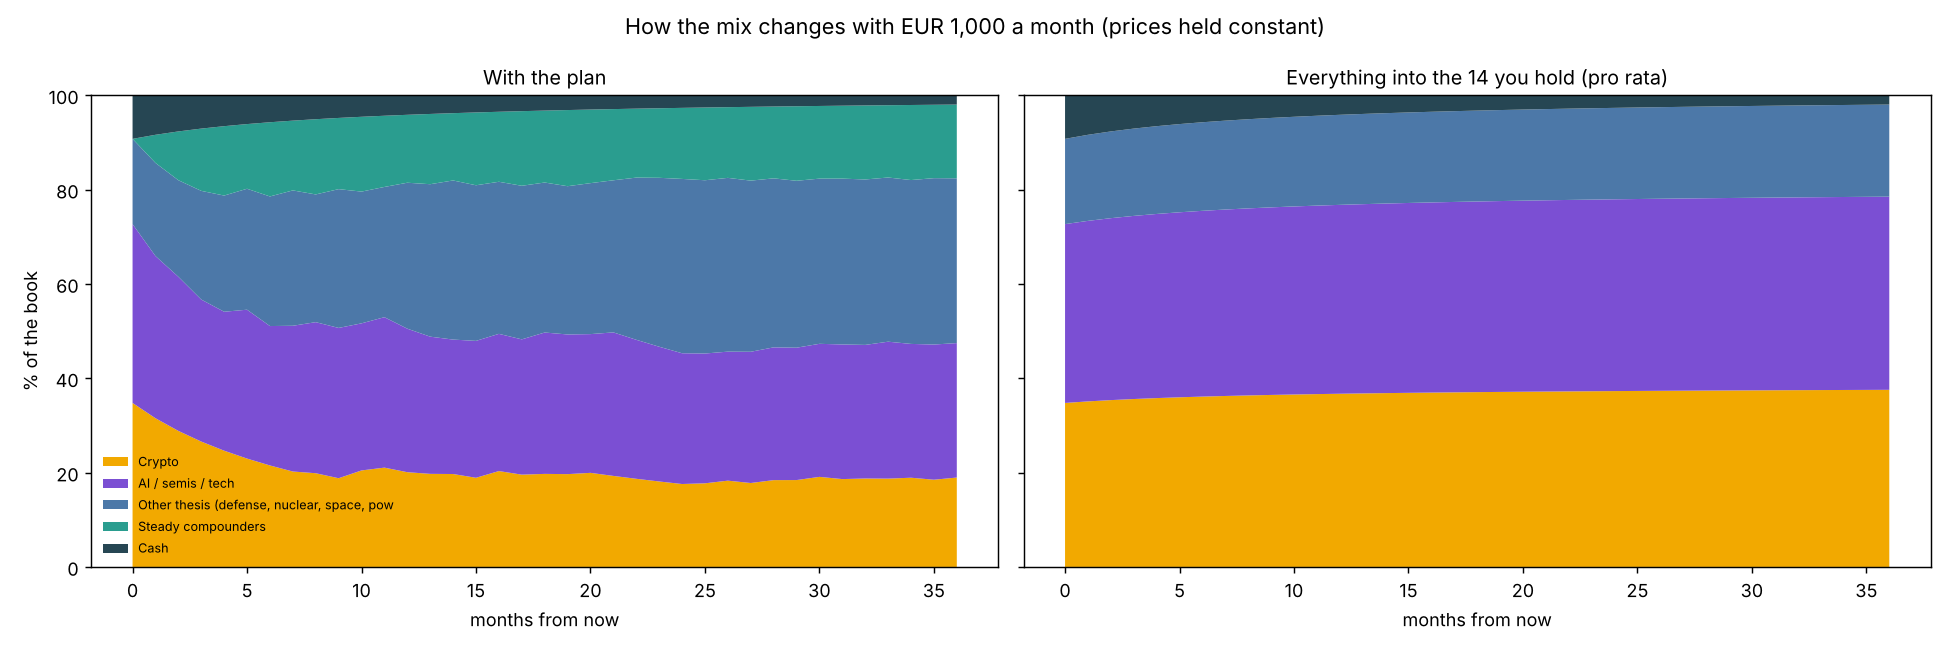
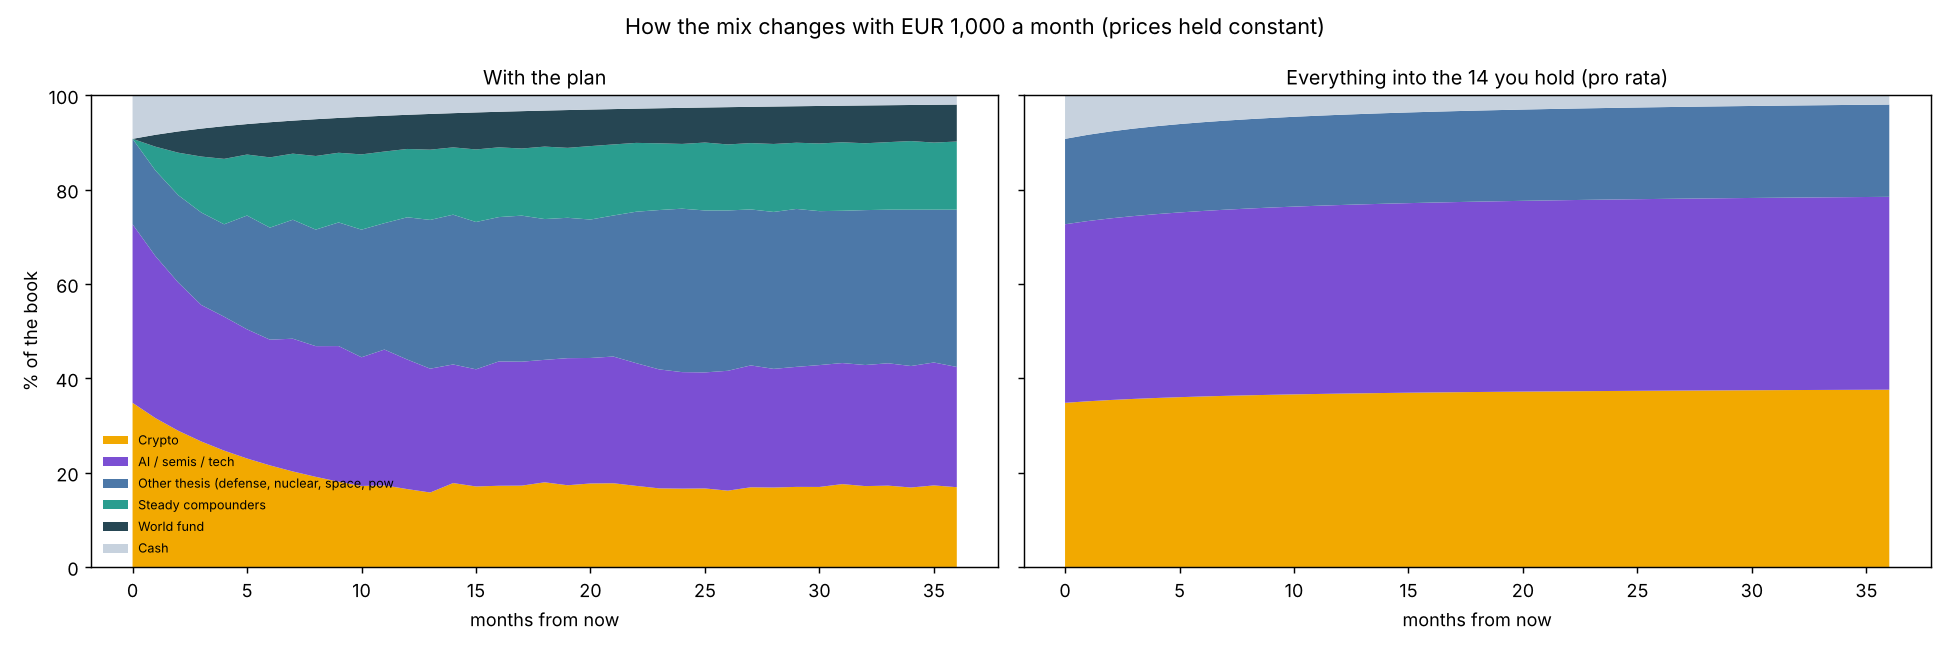
Restore world fund (VT) in the plan with a 5% risk budget; refresh plan, policy and IPS numbers
Claude-Session: https://claude.ai/code/session_01NJmfEZVHQN9Pen9tTm1HFs

diff --git a/reports/latest/MY_PLAN.md b/reports/latest/MY_PLAN.md
@@ -1,4 +1,4 @@
-# My plan (optimised version; prices as of 3 Nov 2026, EURUSD 1.119)
+# My plan (optimised version with the world fund VT; prices as of 3 Nov 2026, EURUSD 1.12)
 
 Book **$10,902 = EUR 9,742** (dry powder about EUR 900 is separate and untouched). Money per month: EUR 1,000.
 Rule: each month put the money into the (max 5) positions furthest BELOW target. Never sell. Overweights just get diluted.
@@ -8,7 +8,7 @@ Monthly: `python scripts/monthly_plan.py --monthly-eur 1000`; after buying: add 
 ## 1. What I hold now vs the target (book under EUR 20k)
 | Ticker | Value EUR | Now % | Target % | Status |
 |---|---|---|---|---|
-| BTC | 2,130 | 21.9 | 12.5 | over: no buys until about month 8 |
+| BTC | 2,130 | 21.9 | 10.9 | over: no buys until about month 11 |
 | QQQM | 1,444 | 14.8 | 11.4 | over |
 | SMH | 969 | 9.9 | 5.3 | over |
 | ETH | 886 | 9.1 | 5.0 | over |
@@ -23,47 +23,47 @@ Monthly: `python scripts/monthly_plan.py --monthly-eur 1000`; after buying: add 
 | UFO | 194 | 2.0 | 5.5 | under |
 | NEAR | 170 | 1.7 | 1.3 | over |
 | Cash (USDT) | ~900 | 9.2 | 5 | dry powder |
-New positions: **Visa (V) 7.6%, Mastercard (MA) 7.6%, HOOD 2.5%**. (I dropped the world fund: after risk budgeting it came out under 2%, too small to matter.)
+New positions: **Visa (V) 7.6%, Mastercard (MA) 7.6%, world fund VT 7.6%, HOOD 2.2%**. (The world fund is back: I had cut it when I gave it a 1% risk budget; with a 5% budget the optimiser sizes it at 7.6%.)
 
 ## 2. The next EUR 1,000 (month 1)
 | Buy | EUR | USD | Shares |
 |---|---|---|---|
-| Visa (V) | 320 | 358 | 0.8514 |
-| Mastercard (MA) | 320 | 358 | 0.5510 |
-| UFO | 153 | 171 | 4.2408 |
-| HOOD | 105 | 118 | 1.3944 |
-| NLR | 101 | 113 | 1.2444 |
-Two thirds of month 1 goes to Visa and Mastercard because they are the biggest hole in a book that is 73% crypto + AI. If that feels too boring, lower `steady` in `sleeve_max_pct` in `data/policy.json` and rerun `construct.py --build`.
+| Visa (V) | 271 | 304 | 0.7213 |
+| Mastercard (MA) | 271 | 304 | 0.4690 |
+| Vanguard Total World (VT) | 271 | 304 | 1.9568 |
+| UFO | 107 | 120 | 2.9438 |
+| HOOD | 79 | 88 | 1.0329 |
+VT pays quarterly dividends. If your platform does not credit dividends on it, ask support first (message in chat); without VT this month would be about V 320, MA 320, UFO 153, HOOD 105, NLR 101.
 
 ## 3. The next 12 months at EUR 1,000 (constant prices: rerun the tool each month)
 | Month | Buys (EUR) |
 |---|---|
-| 1 | V 320, MA 320, UFO 153, HOOD 105, NLR 101 |
-| 2 | V 287, MA 287, UFO 147, QTUM 143, LLY 136 |
-| 3 | V 234, MA 234, ITA 214, NLR 177, HOOD 142 |
-| 4 | UFO 227, LLY 222, QTUM 212, V 170, MA 170 |
-| 5 | NVDA 227, ITA 211, QQQM 211, NLR 185, SKHY 167 |
-| 6 | V 227, MA 227, HOOD 185, LLY 183, UFO 178 |
-| 7 | QQQM 304, QTUM 217, VST 182, ITA 156, NLR 142 |
-| 8 | NVDA 266, SKHY 243, V 176, MA 176, BTC 138 |
-| 9 | QQQM 290, LLY 222, UFO 213, ITA 144, NLR 131 |
-| 10 | BTC 342, QTUM 185, ETH 172, V 151, MA 151 |
-| 11 | SMH 235, QQQM 224, VST 213, NEAR 173, UNI 155 |
-| 12 | PICK 602, GEV 330, ITA 68 |
+| 1 | V 271, MA 271, VT 271, UFO 107, HOOD 79 |
+| 2 | V 258, MA 258, VT 258, LLY 114, UFO 111 |
+| 3 | V 226, MA 226, VT 226, ITA 167, NLR 155 |
+| 4 | QTUM 213, V 197, MA 197, VT 197, LLY 195 |
+| 5 | UFO 251, ITA 220, HOOD 203, NLR 192, NVDA 136 |
+| 6 | V 220, MA 220, VT 220, LLY 181, QTUM 160 |
+| 7 | QQQM 294, SKHY 221, ITA 176, UFO 164, NLR 145 |
+| 8 | V 212, MA 212, VT 212, NVDA 204, LLY 160 |
+| 9 | QQQM 269, QTUM 202, VST 200, HOOD 182, ITA 147 |
+| 10 | UFO 221, NLR 208, V 190, MA 190, VT 190 |
+| 11 | SKHY 229, LLY 216, QQQM 204, BTC 200, NVDA 151 |
+| 12 | PICK 582, GEV 336, ITA 82 |
 
 ## 4. As the book grows
 | Book reaches | New positions | When at EUR 1,000/mo | At EUR 1,500/mo |
 |---|---|---|---|
 | EUR 20,000 | GE Vernova (GEV) and mining ETF (PICK) | about month 11-12 | about month 7 |
 | EUR 30,000 | India (INDA) and gene editing (CRSP) | about month 21 | about month 14 |
-After 3 years (constant prices): crypto 19% (vs 38% pro rata), AI/semis/tech 28.5% (vs 41%), other thesis 35%, Visa+Mastercard 15.6%, 21 positions.
+After 3 years (constant prices): crypto 17% (vs 38% pro rata), AI/semis/tech 25.5% (vs 41%), other thesis 33%, Visa+Mastercard 14.5%, world fund 7.8%, 22 positions.
 
 ## 5. What the optimisation changed vs my first plan
-- Out-of-sample (2021-2026): about the same return (27.0% vs 27.4% a year) with lower risk: volatility 22.7% vs 25.6%, worst drop -30% vs -37%.
+- Out-of-sample (2021-2026): slightly lower return (25.7% vs 26.2% a year) with clearly lower risk: volatility 22.0% vs 24.8%, worst drop -30% vs -37%.
 - Target mixes: volatility 24.7% / 24.2% / 23.0% (stages A/B/C) vs 30.3% today; worst drop about -22 to -24% vs -30%; crypto share of risk 30-32% vs 52% today.
-- Sizes moved: BTC 12.5% (was 17), Visa/Mastercard 7.6% each (was 4), India 5.7% (was 3), HOOD 2.5% (was 3).
+- Sizes moved: BTC 10.9% (was 17), Visa/Mastercard 7.6% each (was 4), world fund 7.6% (was 8), India 5.7% (was 3), HOOD 2.2% (was 3).
 
 ## 6. HOOD
-Risk-budget sizing says about 2.5% now and no more after. At 3% it adds +0.6 pt volatility and -0.8 pt to the worst 20-day loss, and is the only candidate that raises risk; Q3 2026: record revenue $1.42B, EPS -16%, crypto revenue -55% y/y, funded customers +7%, Gold subscribers +34%. A conviction bet, sized small.
+Risk-budget sizing says about 2.2% now and no more after. At 3% it adds +0.6 pt volatility and -0.8 pt to the worst 20-day loss, and is the only candidate that raises risk; Q3 2026: record revenue $1.42B, EPS -16%, crypto revenue -55% y/y, funded customers +7%, Gold subscribers +34%. A conviction bet, sized small.
 
 Caveats: policy numbers are my proposal; history-based results are hindsight with a hindsight-picked universe; assumes fills at the latest close; not financial advice.

diff --git a/reports/latest/plan.md b/reports/latest/plan.md
@@ -1,61 +1,61 @@
-# Monthly plan (EURUSD 1.119)
-Book $10,902 = EUR 9,742 -> stage **A**. Money this month: EUR 1,000 = $1,119.
+# Monthly plan (EURUSD 1.120)
+Book $10,908 = EUR 9,741 -> stage **A**. Money this month: EUR 1,000 = $1,120.
 
 ## This month's buys (most under-target first)
 | Ticker | buy EUR | buy USD | shares | weight now % | weight after % | target % | new? |
 |---|---|---|---|---|---|---|---|
-| V | 320 | 358 | 0.8514 | 0.0 | 3.0 | 7.6 | NEW |
-| MA | 320 | 358 | 0.5510 | 0.0 | 3.0 | 7.6 | NEW |
-| UFO | 153 | 171 | 4.2408 | 2.0 | 3.2 | 5.5 |  |
-| HOOD | 105 | 118 | 1.3944 | 0.0 | 1.0 | 2.5 | NEW |
-| NLR | 101 | 113 | 1.2444 | 3.0 | 3.6 | 5.2 |  |
+| V | 271 | 304 | 0.7213 | 0.0 | 2.5 | 7.6 | NEW |
+| MA | 271 | 304 | 0.4690 | 0.0 | 2.5 | 7.6 | NEW |
+| WORLD | 271 | 304 | 1.9568 | 0.0 | 2.5 | 7.6 | NEW |
+| UFO | 107 | 120 | 2.9438 | 2.0 | 2.8 | 4.9 |  |
+| HOOD | 79 | 88 | 1.0329 | 0.0 | 0.7 | 2.2 | NEW |
 
-Above target (no selling needed, they get diluted): BTC +9.4pt, SMH +4.6pt, ETH +4.1pt, QQQM +3.4pt, VST +1.2pt
+Above target (no selling needed, they get diluted): BTC +11.0pt, SMH +5.1pt, ETH +4.7pt, QQQM +4.5pt, VST +1.7pt
 
 Positions still at zero in this stage (planned later): CRSP, GEV, INDA, PICK
 
 | Buy calendar (first 12 months) | stage | buys (EUR) |
 |---|---|---|
-| month 1 | A | V 320, MA 320, UFO 153, HOOD 105, NLR 101 |
-| month 2 | A | V 287, MA 287, UFO 147, QTUM 143, LLY 136 |
-| month 3 | A | V 234, MA 234, ITA 214, NLR 177, HOOD 142 |
-| month 4 | A | UFO 227, LLY 222, QTUM 212, V 170, MA 170 |
-| month 5 | A | NVDA 227, ITA 211, QQQM 211, NLR 185, SKHY 167 |
-| month 6 | A | V 227, MA 227, HOOD 185, LLY 183, UFO 178 |
-| month 7 | A | QQQM 304, QTUM 217, VST 182, ITA 156, NLR 142 |
-| month 8 | A | NVDA 266, SKHY 243, V 176, MA 176, BTC 138 |
-| month 9 | A | QQQM 290, LLY 222, UFO 213, ITA 144, NLR 131 |
-| month 10 | A | BTC 342, QTUM 185, ETH 172, V 151, MA 151 |
-| month 11 | A | SMH 235, QQQM 224, VST 213, NEAR 173, UNI 155 |
-| month 12 | B | PICK 602, GEV 330, ITA 68 |
+| month 1 | A | V 271, MA 271, WORLD 271, UFO 107, HOOD 79 |
+| month 2 | A | V 258, MA 258, WORLD 258, LLY 114, UFO 111 |
+| month 3 | A | V 226, MA 226, WORLD 226, ITA 167, NLR 155 |
+| month 4 | A | QTUM 213, V 197, MA 197, WORLD 197, LLY 195 |
+| month 5 | A | UFO 251, ITA 220, HOOD 203, NLR 192, NVDA 136 |
+| month 6 | A | V 220, MA 220, WORLD 220, LLY 181, QTUM 160 |
+| month 7 | A | QQQM 294, SKHY 221, ITA 176, UFO 164, NLR 145 |
+| month 8 | A | V 212, MA 212, WORLD 212, NVDA 204, LLY 160 |
+| month 9 | A | QQQM 269, QTUM 202, VST 200, HOOD 182, ITA 147 |
+| month 10 | A | UFO 221, NLR 208, V 190, MA 190, WORLD 190 |
+| month 11 | A | SKHY 229, LLY 216, QQQM 204, BTC 200, NVDA 151 |
+| month 12 | B | PICK 582, GEV 336, ITA 82 |
 
 ## 36-month path at EUR 1,000/mo (constant prices: shows only what new money does)
 Stage changes: stage A from month 0, stage B from month 11, stage C from month 21
 
-| With the plan | Crypto | AI / semis / tech | Other thesis (defense, nuclear, space, power, health, fintech, new themes) | Steady compounders | Cash | # positions |
-|---|---|---|---|---|---|---|
-| month 0 | 34.8 | 37.9 | 18.1 | 0.0 | 9.2 | 14 |
-| month 6 | 21.5 | 29.6 | 27.5 | 15.7 | 5.7 | 17 |
-| month 12 | 20.1 | 30.4 | 30.9 | 14.4 | 4.1 | 19 |
-| month 18 | 19.7 | 30.0 | 31.8 | 15.3 | 3.2 | 19 |
-| month 24 | 17.6 | 27.7 | 37.0 | 15.1 | 2.7 | 21 |
-| month 36 | 19.0 | 28.5 | 34.9 | 15.6 | 2.0 | 21 |
+| With the plan | Crypto | AI / semis / tech | Other thesis (defense, nuclear, space, power, health, fintech, new themes) | Steady compounders | World fund | Cash | # positions |
+|---|---|---|---|---|---|---|---|
+| month 0 | 34.8 | 37.9 | 18.1 | 0.0 | 0.0 | 9.2 | 14 |
+| month 6 | 21.5 | 26.7 | 23.8 | 14.9 | 7.4 | 5.7 | 18 |
+| month 12 | 16.5 | 27.5 | 30.2 | 14.5 | 7.2 | 4.1 | 20 |
+| month 18 | 17.9 | 26.0 | 29.8 | 15.4 | 7.6 | 3.2 | 20 |
+| month 24 | 16.6 | 24.7 | 34.7 | 13.7 | 7.7 | 2.7 | 22 |
+| month 36 | 16.9 | 25.5 | 33.3 | 14.5 | 7.8 | 2.0 | 22 |
 
 | All new money into the 14 (pro rata) | Crypto | AI / semis / tech | Cash |
 |---|---|---|---|
 | month 0 | 34.8 | 37.9 | 9.2 |
-| month 6 | 36.1 | 39.4 | 5.7 |
+| month 6 | 36.1 | 39.3 | 5.7 |
 | month 12 | 36.7 | 40.0 | 4.1 |
 | month 18 | 37.1 | 40.4 | 3.2 |
-| month 24 | 37.3 | 40.7 | 2.7 |
-| month 36 | 37.6 | 41.0 | 2.0 |
+| month 24 | 37.3 | 40.6 | 2.7 |
+| month 36 | 37.6 | 40.9 | 2.0 |
 
 ## Risk of each target mix over 2024-03-28 to 2026-11-03 (risky part only, history of these names, hindsight)
 | Mix | vol % | worst drawdown % | worst 20d loss % | crypto share of risk % | AI/semis share of risk % | # positions |
 |---|---|---|---|---|---|---|
-| Your book today | 30.3 | -30.0 | -16.7 | 51.9 | 35.6 | 14 |
-| All new money into the 14 (month 36 mix) | 30.3 | -30.0 | -16.7 | 51.9 | 35.6 | 14 |
-| Stage A target | 24.7 | -23.7 | -13.3 | 31.7 | 35.8 | 17 |
-| Stage B target | 24.2 | -22.2 | -13.1 | 30.9 | 34.3 | 19 |
-| Stage C target | 23.0 | -22.3 | -12.5 | 30.3 | 34.1 | 21 |
+| Your book today | 30.3 | -30.0 | -16.7 | 51.9 | 35.5 | 14 |
+| All new money into the 14 (month 36 mix) | 30.3 | -30.0 | -16.7 | 51.9 | 35.5 | 14 |
+| Stage A target | 23.3 | -22.1 | -13.3 | 28.4 | 34.5 | 18 |
+| Stage B target | 23.0 | -21.0 | -13.0 | 28.5 | 32.4 | 20 |
+| Stage C target | 22.0 | -21.3 | -12.3 | 28.3 | 32.4 | 22 |
 

diff --git a/reports/latest/construction.md b/reports/latest/construction.md
@@ -1,56 +1,58 @@
 # Portfolio construction
 
-## 1. Out-of-sample validation (2021-07-01 to 2026-11-03, monthly refit on the previous 3 years, ~20 assets available on average)
+## 1. Out-of-sample validation (2021-07-01 to 2026-11-03, monthly refit on the previous 3 years, ~21 assets available on average)
 | Method | CAGR % | vol % | Sharpe | max drawdown % | worst 20d % | turnover %/yr |
 |---|---|---|---|---|---|---|
-| Equal weight | 26.5 | 27.0 | 0.87 | -33.5 | -19.1 | 61.7 |
-| Hand-set plan weights | 27.4 | 25.6 | 0.95 | -37.3 | -17.5 | 53.9 |
-| FinQuant max-Sharpe (cap 15%) | 28.3 | 20.5 | 1.23 | -24.2 | -15.4 | 99.3 |
-| FinQuant min-variance (cap 15%) | 19.8 | 15.8 | 1.07 | -17.3 | -10.8 | 52.5 |
-| Equal risk contribution (cap 15%) | 25.0 | 20.4 | 1.08 | -23.7 | -13.8 | 52.1 |
-| Risk budgets by sleeve + position caps | 27.0 | 22.7 | 1.06 | -30.3 | -14.7 | 53.7 |
+| Equal weight | 25.7 | 26.3 | 0.86 | -33.1 | -18.7 | 60.0 |
+| Hand-set plan weights | 26.2 | 24.8 | 0.94 | -36.6 | -17.1 | 52.1 |
+| FinQuant max-Sharpe (cap 15%) | 27.9 | 20.2 | 1.23 | -23.1 | -15.5 | 109.0 |
+| FinQuant min-variance (cap 15%) | 19.1 | 15.2 | 1.06 | -17.3 | -10.4 | 48.3 |
+| Equal risk contribution (cap 15%) | 24.0 | 20.1 | 1.05 | -23.9 | -13.6 | 50.2 |
+| Risk budgets by sleeve + position caps | 25.7 | 22.0 | 1.04 | -29.9 | -14.4 | 51.5 |
 
 Costs: 10bp per side (25bp crypto). All methods see the same hindsight-picked universe, so compare rows against each other.
 ## 2. Optimised targets (% of whole book, 5% cash on top) vs my hand-set ones
 | Ticker | now % | optimised A | optimised B | optimised C | hand-set A | hand-set B | hand-set C |
 |---|---|---|---|---|---|---|---|
-| BTC | 21.9 | 12.5 | 12.1 | 11.3 | 17.0 | 14.5 | 13.0 |
-| CRSP | 0.0 | 0.0 | 0.0 | 2.3 | 0.0 | 0.0 | 2.0 |
-| ETH | 9.1 | 5.0 | 4.8 | 4.5 | 6.0 | 5.0 | 4.5 |
-| GEV | 0.0 | 0.0 | 2.8 | 2.2 | 0.0 | 3.0 | 3.0 |
-| HOOD | 0.0 | 2.5 | 1.8 | 1.4 | 3.0 | 3.0 | 3.0 |
+| BTC | 21.9 | 10.9 | 10.8 | 10.2 | 17.0 | 14.5 | 13.0 |
+| CRSP | 0.0 | 0.0 | 0.0 | 2.1 | 0.0 | 0.0 | 2.0 |
+| ETH | 9.1 | 4.4 | 4.3 | 4.1 | 6.0 | 5.0 | 4.5 |
+| GEV | 0.0 | 0.0 | 2.6 | 2.0 | 0.0 | 3.0 | 3.0 |
+| HOOD | 0.0 | 2.2 | 1.6 | 1.2 | 3.0 | 3.0 | 3.0 |
 | INDA | 0.0 | 0.0 | 0.0 | 5.7 | 0.0 | 0.0 | 3.0 |
-| ITA | 4.1 | 5.7 | 5.7 | 5.3 | 4.0 | 4.0 | 4.0 |
+| ITA | 4.1 | 5.7 | 5.7 | 4.8 | 4.0 | 4.0 | 4.0 |
 | LLY | 4.0 | 5.7 | 5.7 | 5.7 | 4.0 | 4.0 | 4.0 |
-| MA | 0.0 | 7.6 | 7.6 | 7.6 | 4.0 | 5.0 | 5.5 |
-| NEAR | 1.7 | 1.3 | 1.3 | 1.2 | 1.5 | 1.0 | 1.0 |
-| NLR | 2.9 | 5.2 | 3.5 | 2.7 | 3.0 | 3.0 | 3.0 |
-| NVDA | 5.1 | 5.0 | 4.7 | 4.5 | 5.0 | 4.5 | 4.5 |
-| PICK | 0.0 | 0.0 | 5.1 | 3.8 | 0.0 | 3.0 | 3.0 |
-| QQQM | 14.8 | 11.4 | 10.8 | 10.0 | 12.0 | 10.5 | 9.5 |
-| QTUM | 3.0 | 4.9 | 4.5 | 4.3 | 3.0 | 3.0 | 3.0 |
-| SKHY | 5.1 | 4.6 | 4.3 | 4.1 | 5.0 | 4.5 | 4.0 |
-| SMH | 9.9 | 5.3 | 4.9 | 4.7 | 7.0 | 6.5 | 6.0 |
-| UFO | 2.0 | 5.5 | 3.8 | 2.9 | 2.0 | 2.0 | 2.0 |
-| UNI | 2.0 | 1.4 | 1.3 | 1.3 | 1.5 | 1.5 | 1.5 |
-| V | 0.0 | 7.6 | 7.6 | 7.5 | 4.0 | 5.0 | 5.5 |
-| VST | 5.1 | 3.8 | 2.7 | 2.1 | 5.0 | 4.5 | 4.0 |
+| MA | 0.0 | 7.6 | 7.5 | 7.0 | 4.0 | 5.0 | 5.5 |
+| NEAR | 1.7 | 1.1 | 1.2 | 1.1 | 1.5 | 1.0 | 1.0 |
+| NLR | 2.9 | 4.6 | 3.2 | 2.5 | 3.0 | 3.0 | 3.0 |
+| NVDA | 5.1 | 4.5 | 4.3 | 4.1 | 5.0 | 4.5 | 4.5 |
+| PICK | 0.0 | 0.0 | 4.5 | 3.4 | 0.0 | 3.0 | 3.0 |
+| QQQM | 14.8 | 10.3 | 9.4 | 9.0 | 12.0 | 10.5 | 9.5 |
+| QTUM | 3.0 | 4.3 | 4.0 | 3.9 | 3.0 | 3.0 | 3.0 |
+| SKHY | 5.1 | 4.2 | 3.9 | 3.8 | 5.0 | 4.5 | 4.0 |
+| SMH | 9.9 | 4.8 | 4.4 | 4.2 | 7.0 | 6.5 | 6.0 |
+| UFO | 2.0 | 4.9 | 3.4 | 2.6 | 2.0 | 2.0 | 2.0 |
+| UNI | 2.0 | 1.2 | 1.2 | 1.2 | 1.5 | 1.5 | 1.5 |
+| V | 0.0 | 7.6 | 7.4 | 6.9 | 4.0 | 5.0 | 5.5 |
+| VST | 5.1 | 3.4 | 2.4 | 1.9 | 5.0 | 4.5 | 4.0 |
+| WORLD | 0.0 | 7.6 | 7.6 | 7.6 | 8.0 | 7.5 | 6.0 |
 
 ## 3. Risk by sleeve (% of total portfolio risk) at each optimised stage
 | sleeve | A | B | C |
 |---|---|---|---|
-| ai_tech | 33.2 | 32.3 | 32.1 |
-| crypto | 35.9 | 34.4 | 33.9 |
-| other_thesis | 26.3 | 28.5 | 28.8 |
-| steady | 4.6 | 4.8 | 5.2 |
+| ai_tech | 31.8 | 30.7 | 30.6 |
+| crypto | 32.9 | 31.7 | 31.5 |
+| other_thesis | 25.7 | 27.8 | 28.0 |
+| steady | 5.2 | 5.2 | 5.2 |
+| world | 4.4 | 4.5 | 4.8 |
 
 ## 4. Stage mixes: optimised vs hand-set (covariance since the last 3 years)
-| stage / mix | vol % | worst drawdown % | largest weight % | crypto share of risk % |
-|---|---|---|---|---|
-| stage A optimised | 24.0 | -25.3 | 12.5 | 35.9 |
-| stage A hand-set | 27.6 | -28.3 | 18.6 | 47.0 |
-| stage B optimised | 24.2 | -24.7 | 12.1 | 34.4 |
-| stage B hand-set | 27.0 | -27.0 | 15.7 | 38.1 |
-| stage C optimised | 23.0 | -23.4 | 11.3 | 33.9 |
-| stage C hand-set | 25.8 | -25.9 | 13.9 | 35.3 |
+| stage / mix | vol % | worst drawdown % | largest weight % | crypto share of risk % | no-sell floor binding |
+|---|---|---|---|---|---|
+| stage A optimised | 22.6 | -24.1 | 10.9 | 32.9 | ETH, SMH |
+| stage A hand-set | 26.2 | -27.2 | 17.0 | 44.7 | - |
+| stage B optimised | 23.0 | -23.6 | 10.8 | 31.7 | - |
+| stage B hand-set | 25.8 | -26.1 | 14.5 | 36.2 | - |
+| stage C optimised | 22.0 | -22.5 | 10.2 | 31.5 | - |
+| stage C hand-set | 24.9 | -25.3 | 13.0 | 33.9 | - |
 

diff --git a/reports/latest/IPS.md b/reports/latest/IPS.md
@@ -16,9 +16,9 @@ Written down so decisions are made by rules, not by mood. Numbers come from `scr
 
 ## 3. Risk policy
 - Accepts drawdowns of 40-50% in the worst cases (e.g. a dot-com-style shock hits the plan for about -53 to -57% of the book; the old pro-rata approach about -62%).
-- **Sleeve risk budgets** (share of total portfolio risk): crypto 33%, AI/semis/tech 31%, other thesis 30%, steady compounders 5%, world fund 1% (excluded).
+- **Sleeve risk budgets** (share of total portfolio risk): crypto 31%, AI/semis/tech 30%, other thesis 29%, steady compounders 5%, world fund (VT) 5%.
 - **Position caps** (max % of invested money in one holding): crypto 15, AI/tech 12, other thesis 6, steady 8; **no-sell floors** override a cap.
-- **Sleeve ranges (% of whole book):** crypto 10-22 (hard max 25), AI/semis/tech 20-32, other thesis 25-40, steady 10-18, cash 2-8. HOOD max 4%.
+- **Sleeve ranges (% of whole book):** crypto 10-22 (hard max 25), AI/semis/tech 20-32, other thesis 25-40, steady 10-18, world fund 4-10, cash 2-8. HOOD max 4%.
 - Today's book is outside the ranges (crypto 35%, AI/tech 38%, no steady names). It is brought inside by new money only.
 
 ## 4. How the weights are built (and why I trust it only this far)
@@ -27,13 +27,13 @@ Written down so decisions are made by rules, not by mood. Numbers come from `scr
 
 | Method | CAGR | Vol | Sharpe | Worst drop |
 |---|---|---|---|---|
-| Hand-set weights (my first plan) | 27.4% | 25.6% | 0.95 | -37.3% |
-| **Risk budgets + caps (used)** | 27.0% | 22.7% | 1.06 | -30.3% |
-| Equal risk contribution | 25.0% | 20.4% | 1.08 | -23.7% |
-| FinQuant max-Sharpe (cap 15%) | 28.3% | 20.5% | 1.23 | -24.2% |
-| Equal weight | 26.5% | 27.0% | 0.87 | -33.5% |
+| Hand-set weights (my first plan) | 26.2% | 24.8% | 0.94 | -36.6% |
+| **Risk budgets + caps (used)** | 25.7% | 22.0% | 1.04 | -29.9% |
+| Equal risk contribution | 24.0% | 20.1% | 1.05 | -23.9% |
+| FinQuant max-Sharpe (cap 15%) | 27.9% | 20.2% | 1.23 | -23.1% |
+| Equal weight | 25.7% | 26.3% | 0.86 | -33.1% |
 
-- Max-Sharpe scores best but is **not used**: the 22 names were picked with hindsight (winners), which flatters any method that chases recent winners, it trades about twice as much (99% a year), and in my 100-year test optimisers lost to simple rules. Risk-based construction kept about the same return as my hand-set weights with clearly lower risk (volatility -2.9 pts, worst drop -7 pts); an earlier run showed the same pattern for lookbacks of 504, 756 and 1008 days.
+- Max-Sharpe scores best but is **not used**: the 22 names were picked with hindsight (winners), which flatters any method that chases recent winners, it trades about twice as much (109% a year), and in my 100-year test optimisers lost to simple rules. Risk-based construction gave up about half a point of yearly return versus my hand-set weights for clearly lower risk (volatility -2.8 pts, worst drop -7 pts); an earlier run showed the same pattern for lookbacks of 504, 756 and 1008 days.
 - Limits: one AI/crypto boom plus the 2022 bear; 22 hindsight-picked names; covariance is estimated; risk budgets are my policy choices.
 
 ## 5. Implementation rules
